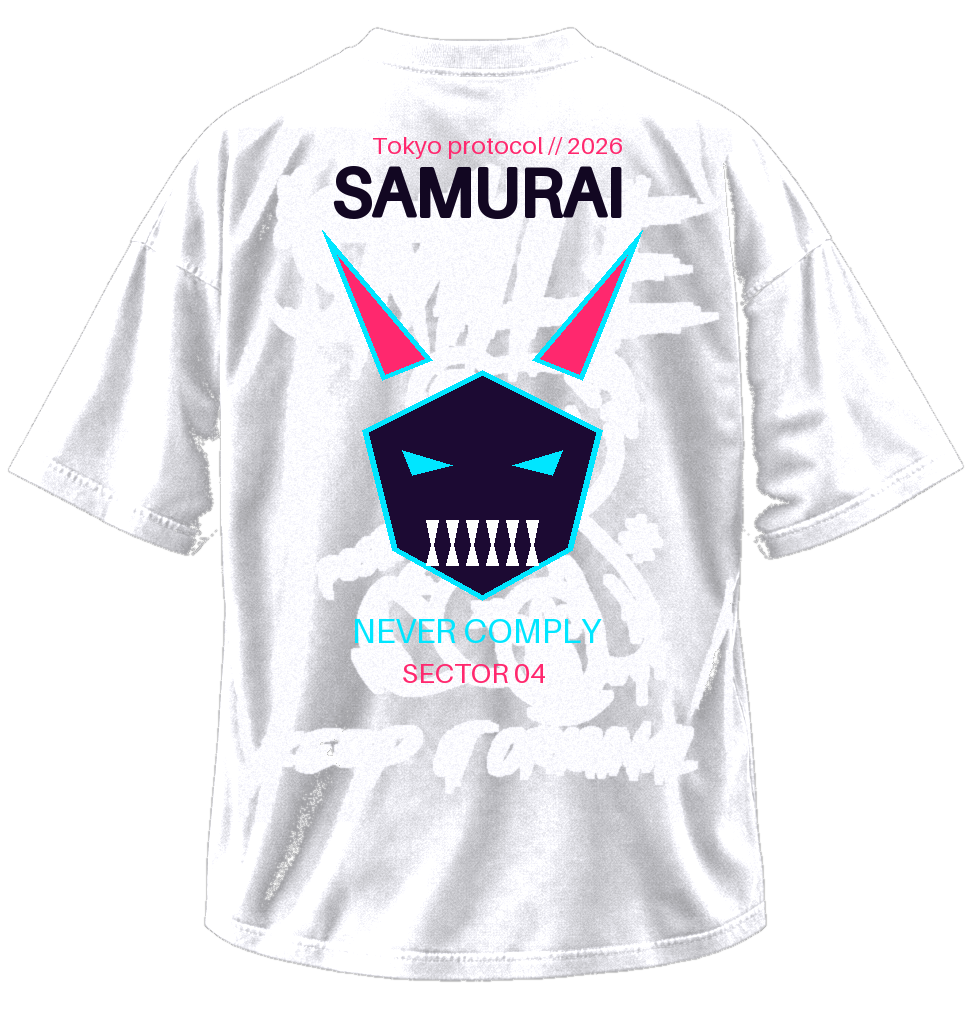
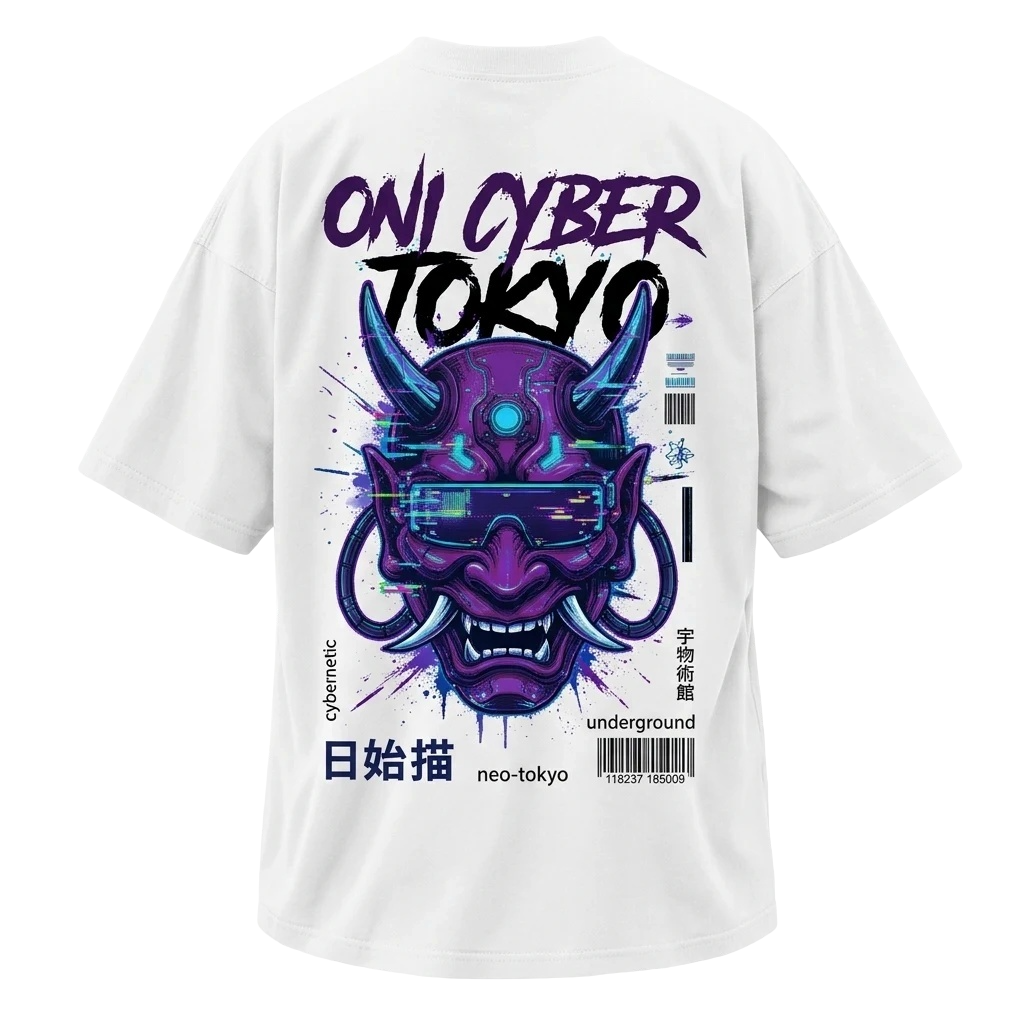
feat: add real product photos and colors for Oni Cyber Tokyo Heavyweight Tee

Changed region(s): [[0.0622, 0.125, 0.9016, 0.9688], [0.4663, 0.0312, 0.5285, 0.0938]]

diff --git a/frontend/src/data/products.ts b/frontend/src/data/products.ts
@@ -193,11 +193,11 @@ export const INITIAL_PRODUCTS: Product[] = [
     image_url: '/products/oni-cyber.png',
     images_by_color: makeProductImages('oni-cyber'),
     print_style: 'boss-purple',
-    print_title: 'SAMURAI // ONI',
-    print_subtitle: 'SECTOR 04',
+    print_title: 'ONI CYBER TOKYO',
+    print_subtitle: 'UNDERGROUND // CYBERNETIC',
     name: 'Oni Cyber Tokyo Heavyweight Tee',
-    short_description: 'Тяжелый хлопок 260 г/м² с неоновой маской кибер-самурая и надписью NEVER COMPLY.',
-    description: 'Тяжелый премиальный хлопок с мягкой бархатистой поверхностью. Усиленный воротник 3 см не растягивается после стирок.',
+    short_description: 'Тяжелый премиум-хлопок 260 г/м² с неоновой маской кибер-Они и принтом ONI CYBER TOKYO.',
+    description: 'Коллекционная оверсайз-футболка плотностью 260 г/м². Высокодетализированный многослойный принт маски кибер-Они в шлеме, устойчивый к 80+ стиркам. Доступна в 4 реальных цветах: Черный с неоном, Белый, Тёмный индиго и Графит.',
     variants: [],
   },
   {
@@ -321,7 +321,7 @@ export const INITIAL_PRODUCTS: Product[] = [
 export const PRODUCT_AVAILABLE_COLORS: Record<string, string[]> = {
   'prod-001': ['black-sesame', 'cold-ice', 'mana-cyan', 'acid-lime', 'cyber-pink', 'velvet-indigo'], // Все 6 цветов из реальных фото Ozon!
   'prod-002': ['black-sesame', 'cold-ice'], // Черный и вываренный светлый
-  'prod-003': ['black-sesame', 'velvet-indigo'], // Черный самурай и индиго
+  'prod-003': ['black-sesame', 'cold-ice', 'velvet-indigo', 'acid-lime'], // 4 реальных цвета: черный, белый, темный индиго и графит-лайм!
   'prod-004': ['black-sesame', 'cold-ice', 'cyber-pink'], // Черный, хром и кибер-розовый
   'prod-005': ['black-sesame', 'acid-lime'], // Черный и кислотный лайм
   'prod-006': ['black-sesame', 'mana-cyan'], // Черный и циан космос

diff --git a/frontend/src/App.tsx b/frontend/src/App.tsx
@@ -90,9 +90,9 @@ export const App: React.FC = () => {
   // Данные магазина с локальной персистентностью и актуальными фото и остатками по цветам
   const [products, setProducts] = useState<Product[]>(() => {
     try {
-      const saved = localStorage.getItem('test_products_v5');
+      const saved = localStorage.getItem('test_products_v6');
       if (saved) return JSON.parse(saved);
-      localStorage.setItem('test_products_v5', JSON.stringify(INITIAL_PRODUCTS));
+      localStorage.setItem('test_products_v6', JSON.stringify(INITIAL_PRODUCTS));
       return INITIAL_PRODUCTS;
     } catch {
       return INITIAL_PRODUCTS;
@@ -154,7 +154,7 @@ export const App: React.FC = () => {
   });
 
   useEffect(() => {
-    localStorage.setItem('test_products_v5', JSON.stringify(products));
+    localStorage.setItem('test_products_v6', JSON.stringify(products));
   }, [products]);
 
   useEffect(() => {
